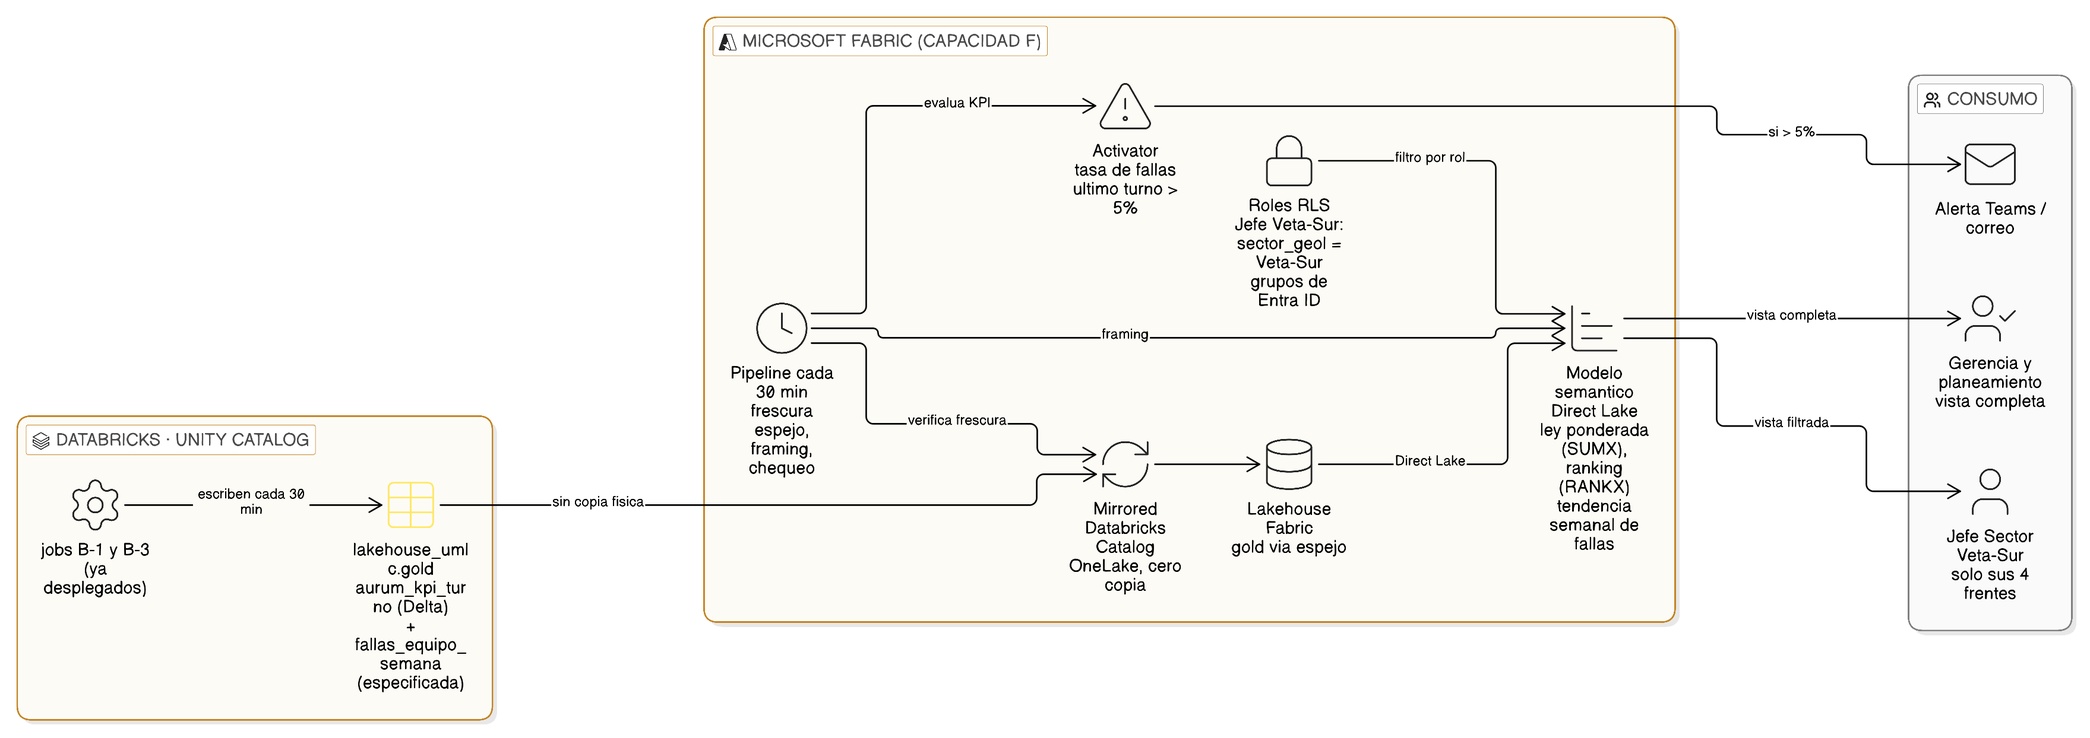
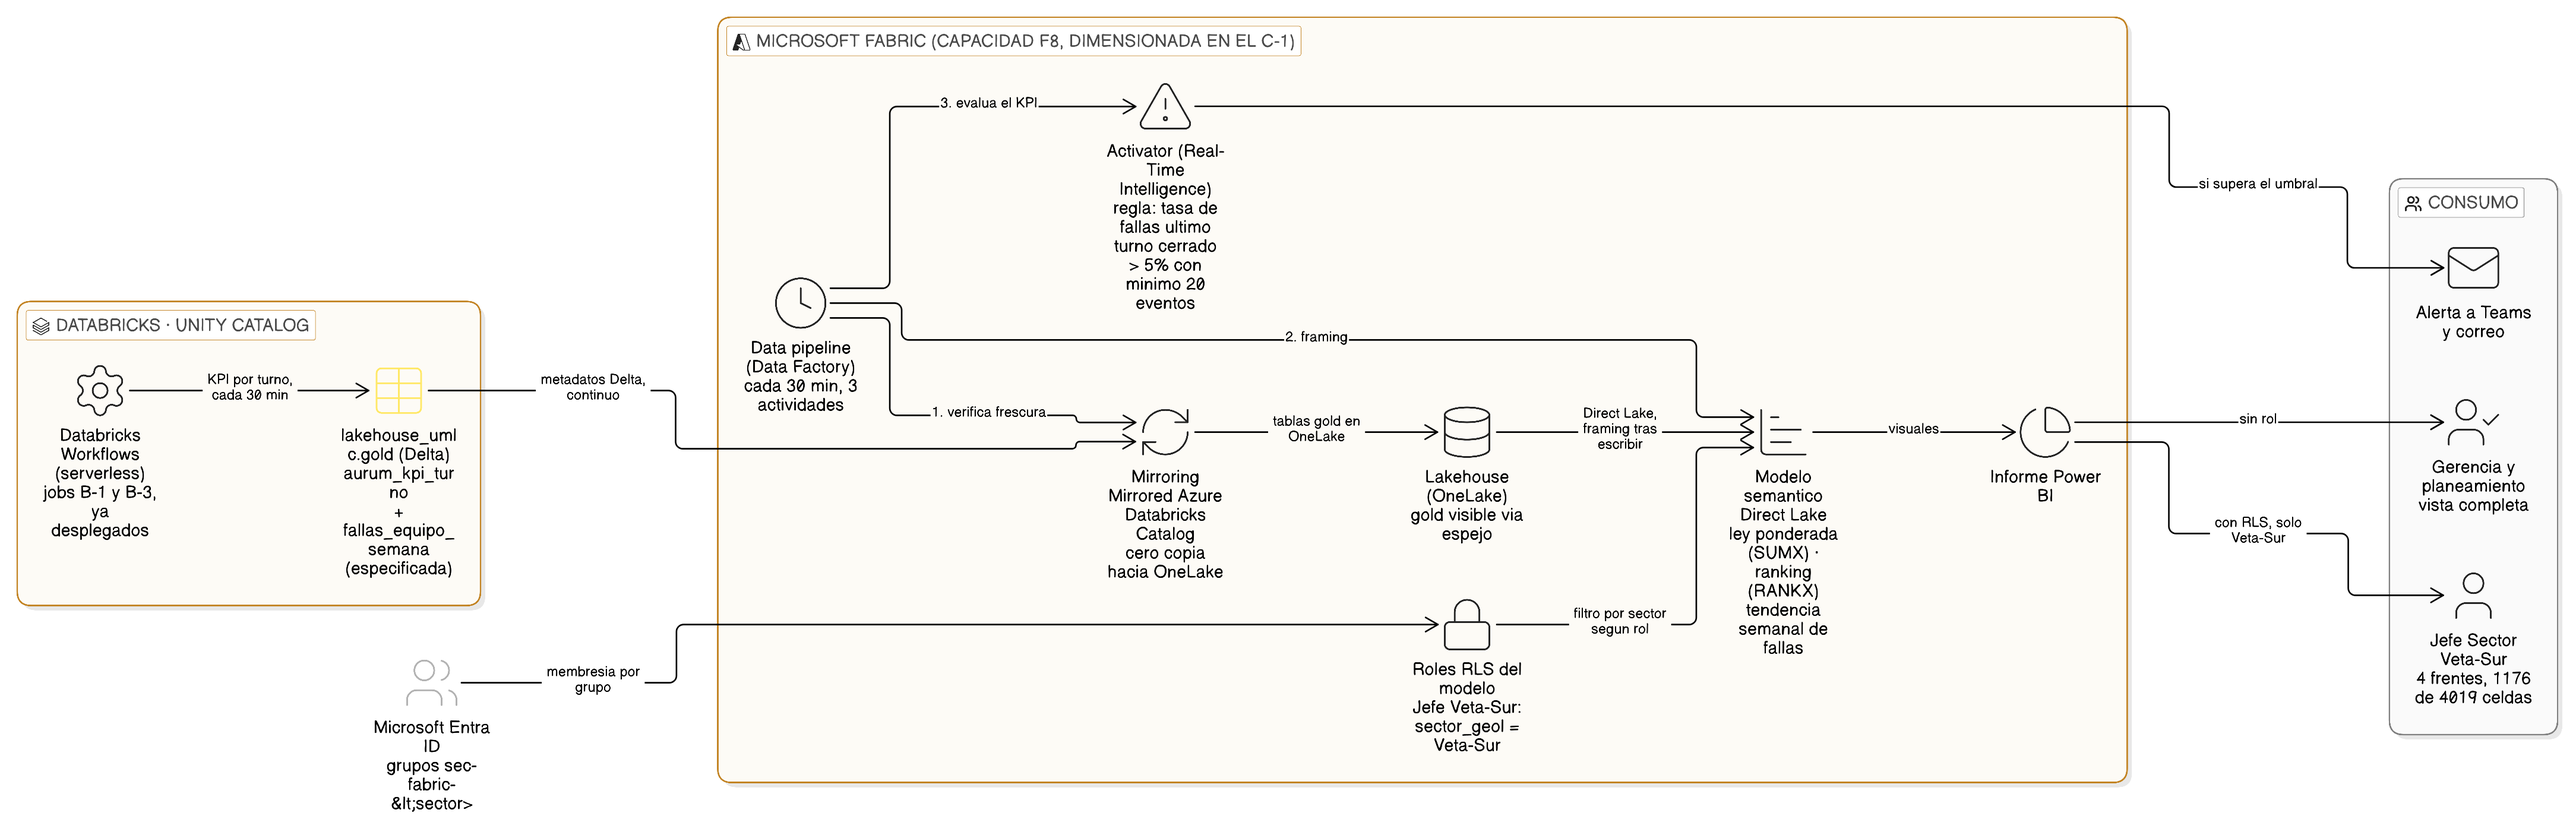
docs(b2): servicios nombrados por producto y flujos etiquetados de extremo a extremo
El diagrama y el documento nombran cada servicio concreto -Workflows, Mirroring,
OneLake, Lakehouse, Direct Lake, Data pipeline de Data Factory, Activator de
Real-Time Intelligence, Informe Power BI y Entra ID- y una tabla de nueve pasos
deja explicito que fluye entre cada par y a que cadencia.

Claude-Session: https://claude.ai/code/session_01WNZR3z1gMTkwXPMx3mZN7C

diff --git a/docs/fabric.md b/docs/fabric.md
@@ -17,7 +17,24 @@ silver = LimpiadorSilver().separar(LimpiadorSilver().enriquecer(bronze)).validas
 gold = ConstructorKpiTurno().construir(silver)   # 4019 celdas, las mismas de la nube
 ```
 
-## 1. Réplica de Gold: espejo, no copia
+## 1. Servicios y flujos, de un vistazo
+
+Cada paso con su servicio concreto, qué fluye y a qué ritmo; es el mismo orden del
+diagrama `modulo_b/fabric_b2.png`:
+
+| # | De → a | Servicio concreto | Qué fluye | Cadencia |
+|---|---|---|---|---|
+| 1 | Jobs B-1/B-3 → `lakehouse_umlc.gold` | Databricks Workflows (serverless) | KPI por turno en Delta | cada 30 min |
+| 2 | Gold (Unity Catalog) → OneLake | **Mirroring**: Mirrored Azure Databricks Catalog | metadatos Delta; los datos no se copian | continua |
+| 3 | OneLake → Lakehouse de Fabric | shortcut interno del espejo | las tablas de gold, legibles como propias | — |
+| 4 | Lakehouse → modelo semántico | **Direct Lake** (Power BI) | columnas a memoria bajo demanda (framing) | tras cada escritura |
+| 5 | Entra ID → roles RLS | grupos de seguridad `sec-fabric-<sector>` | membresía de los cuatro roles | al cambiar el grupo |
+| 6 | Orquestación | **Data pipeline** (Data Factory en Fabric) | frescura del espejo, framing, chequeo del KPI | cada 30 min |
+| 7 | Modelo → alerta | **Activator** (Real-Time Intelligence) | regla: tasa de fallas del último turno cerrado > 5 % con ≥ 20 eventos | al evaluarse |
+| 8 | Activator → operaciones | Teams y correo | la alerta con el turno y la cifra | al disparar |
+| 9 | Modelo → consumidores | **Informe Power BI** | visuales; el jefe de Veta-Sur con RLS, la gerencia sin rol | — |
+
+## 2. Réplica de Gold: espejo, no copia
 
 **Mirrored Azure Databricks Catalog**: Fabric monta `lakehouse_umlc.gold` desde Unity
 Catalog en OneLake, sin mover datos y con los cambios visibles al ritmo en que los jobs del
@@ -33,7 +50,7 @@ Alternativas descartadas:
 - **Copia programada (pipeline copy)**: dos verdades que reconciliar, doble almacenamiento
   y un desfase que alguien tiene que vigilar. Es el anti-patrón que el C-1 ya rechazó.
 
-## 2. Modelo semántico en Direct Lake
+## 3. Modelo semántico en Direct Lake
 
 Sobre el espejo, un modelo en modo **Direct Lake** (ni import, que copia, ni DirectQuery,
 que traduce cada visual a SQL): lee el Delta de OneLake directamente y el framing lo deja
@@ -80,7 +97,7 @@ no se puede servir desde `aurum_kpi_turno`, cuyo grano es el frente (solo conser
 Muestra real (semana del 2025-10-20): EQ-BOAR-05 con 4 fallas, EQ-BOAR-06 y EQ-SAND-09 con
 2, EQ-ATLAS-04, EQ-SAND-08 y EQ-SAND-11 con 1; 1 659 fallas en los 18 meses del extracto.
 
-## 3. Pipeline cada 30 minutos: orquestar, no copiar
+## 4. Pipeline cada 30 minutos: orquestar, no copiar
 
 Con el espejo, la réplica no necesita pipeline. El pipeline de Fabric (cadencia 30 min,
 alineada con la llegada de lotes del B-1) queda en tres actividades:
@@ -99,7 +116,7 @@ eventos y 1 falla — 12.5 %, dispararía por una sola falla. La regla diseñada
 (nativo, sin código, escucha el KPI del modelo) hacia Teams y correo. La alternativa
 —actividad de pipeline con notificación— queda para capacidades sin Activator.
 
-## 4. Row-Level Security
+## 5. Row-Level Security
 
 - **Rol** `Jefe Sector Veta-Sur`, filtro DAX sobre el hecho: `[sector_geol] = "Veta-Sur"`
   (y el mismo filtro en `fallas_equipo_semana` vía la relación con los frentes del sector).
@@ -124,7 +141,7 @@ resultados conocidos de antemano; cuando exista capacidad, es una lista de chequ
 4. La prueba negativa: un usuario del grupo de Veta-Sur consultando por DAX directo
    (XMLA), no solo por el visual — el RLS aplica en el modelo, y esta consulta lo confirma.
 
-## 5. Costos y límites
+## 6. Costos y límites
 
 - La capacidad y su costo ya están dimensionados en el C-1: **F8** para 25–40 visores, con
   la tarifa verificada contra la API de precios de Azure (`modulo_c/costos.py`). Este

diff --git a/ia_usage.md b/ia_usage.md
@@ -1944,3 +1944,11 @@ Propuesta: `docs/fabric.md` más diagrama en `modulo_b/`, con la fila del README
 ### Claude
 
 (Ejecutó: rama `feature/b2-fabric`; cálculo de las cifras reales en Spark local con las clases del B-1 sobre el extracto, sin costo de nube —4 019 celdas, ley ponderada global 7.9623 g/t, Veta-Sur con 4 frentes y 1 176 celdas, ranking encabezado por FR-C2-02 con 311 341 oz, último turno N2 del 2025-10-28 con 1 falla en 8 eventos—; diagrama del B-2 escrito a mano en el DSL de Eraser, exportado a `modulo_b/fabric_b2.png` con su fuente `.eraser`; redacción de `docs/fabric.md`; actualización del README, del diario y de este archivo. Revisión adversarial incorporada al propio diseño: la alerta del 5 % sobre un turno de pocos eventos dispara por ruido —el último turno del extracto daría 12.5 % con una sola falla— y la regla diseñada evalúa el último turno cerrado con un mínimo de 20 eventos; el sesgo del denominador de la ley ponderada re-agregada queda declarado con su corrección de una línea.)
+
+### Amador
+
+Son claros los servicios que usaremos en el diagrama y en la documentación del B-2 y los flujos de información? Déjalos claros tal como lo hablamos, actualiza documentación y haz el push a main definitivo para que el repo quede en su estado ideal. Procede!
+
+### Claude
+
+(Ejecutó: revisión del diagrama y del documento del B-2 con dos vacíos encontrados —el informe de Power BI y Entra ID no aparecían como servicios, y tres flujos iban sin etiqueta—; actualización del diagrama con cada servicio nombrado por su producto —Workflows, Mirroring, OneLake, Lakehouse, Direct Lake, Data pipeline de Data Factory, Activator de Real-Time Intelligence, Informe Power BI, Entra ID— y todos los flujos etiquetados con qué fluye y a qué ritmo; nueva sección "Servicios y flujos, de un vistazo" en `docs/fabric.md` con la tabla de nueve pasos; regeneración del PNG y de la fuente `.eraser`; merge a main y push definitivo a origin.)
